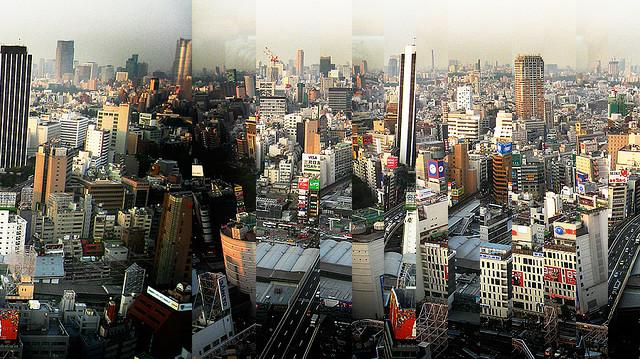
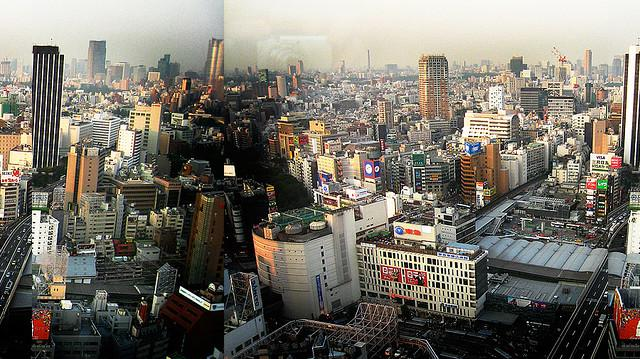
Changed around the average Euclidean Distance formula.

diff --git a/unshredder.py b/unshredder.py
@@ -58,16 +58,19 @@ def calculateDifference(x1,x2):
 	col1 = getPixelColumnLine(x1)
 	col2 = getPixelColumnLine(x2)
 	# start the diff calculation
-	sum_squared_differences = 0.0
+	sum_sqrts = 0.0
 	pixel = 0
 	while pixel < imgHeight:
+		sum_squared_differences = 0.0
 		for channel in [0, 1, 2]:
 	            pixel_one = col1[pixel][channel]
 	            pixel_two = col2[pixel][channel]
 	            diff_squared = (pixel_one-pixel_two)*(pixel_one-pixel_two)
 	            sum_squared_differences += diff_squared
+		sum_sqrts += sqrt(sum_squared_differences)
 		pixel += 1
-	return sqrt(sum_squared_differences/imgHeight)
+	# Return the avg difference in distance
+	return sum_sqrts/imgHeight
 
 def cropShred(shred):
 	# calculate start and end points for crop of shredded image
@@ -88,7 +91,7 @@ def saveUnshredded():
 def sortShreds():
 	# Let's keep going till we're done
 	# raising the minDiff level will ensure completion
-	maxDiffLevel = 100
+	maxDiffLevel = 60
 	while len(shreds_mixed) > 0:
 		# Recursion time!
 		# Add the shreds the match the right edge, of last shred in the pot, to the back
@@ -97,7 +100,7 @@ def sortShreds():
 		matchShredOnLeft( shred_ordered[0],maxDiffLevel )
 		# We there yet?
 		if(len(shreds_mixed) > 0):
-			maxDiffLevel += 10
+			maxDiffLevel += 5
 			print "Hmm, still some shreds left. Increasing maxDiff to: "+str(maxDiffLevel)
 	print shred_ordered
 	
@@ -118,7 +121,7 @@ def matchShredOnLeft(shredToMatch,maxDiff):
 			# Recursion
 			matchShredOnLeft(shred,maxDiff)
 			return
-	# All done the ones to the right
+	# All done the ones to the left
 	return
 
 		
@@ -150,6 +153,29 @@ def remakeUnshreddedImage():
 	# Now save final image
 	saveUnshredded()
 
+def printColumnDiff(x1,x2):
+	print str(x1)+" & "+str(x2)+" = "+str(calculateDifference(x1,x2))
+	
 sortShreds()
 remakeUnshreddedImage()
-#print calculateDifference(192,415)
+
+# Testing Euclidean Distance for pixel column distance
+# My diffs are still to close together with false positives
+"""print "Testing Edge of Column 1R (31) with 2L (32)"
+printColumnDiff(29,30)
+printColumnDiff(30,31)
+printColumnDiff(31,32)
+printColumnDiff(32,33)
+printColumnDiff(33,34)
+print "Testing Edge of Column 2R (63) with 3L (64)"
+printColumnDiff(61,62)
+printColumnDiff(62,63)
+printColumnDiff(63,64)
+printColumnDiff(64,65)
+printColumnDiff(65,66)
+print "Testing Edge of Column 3R (95) with 4L (96)"
+printColumnDiff(93,94)
+printColumnDiff(94,95)
+printColumnDiff(95,96)
+printColumnDiff(96,97)
+printColumnDiff(97,98)"""
